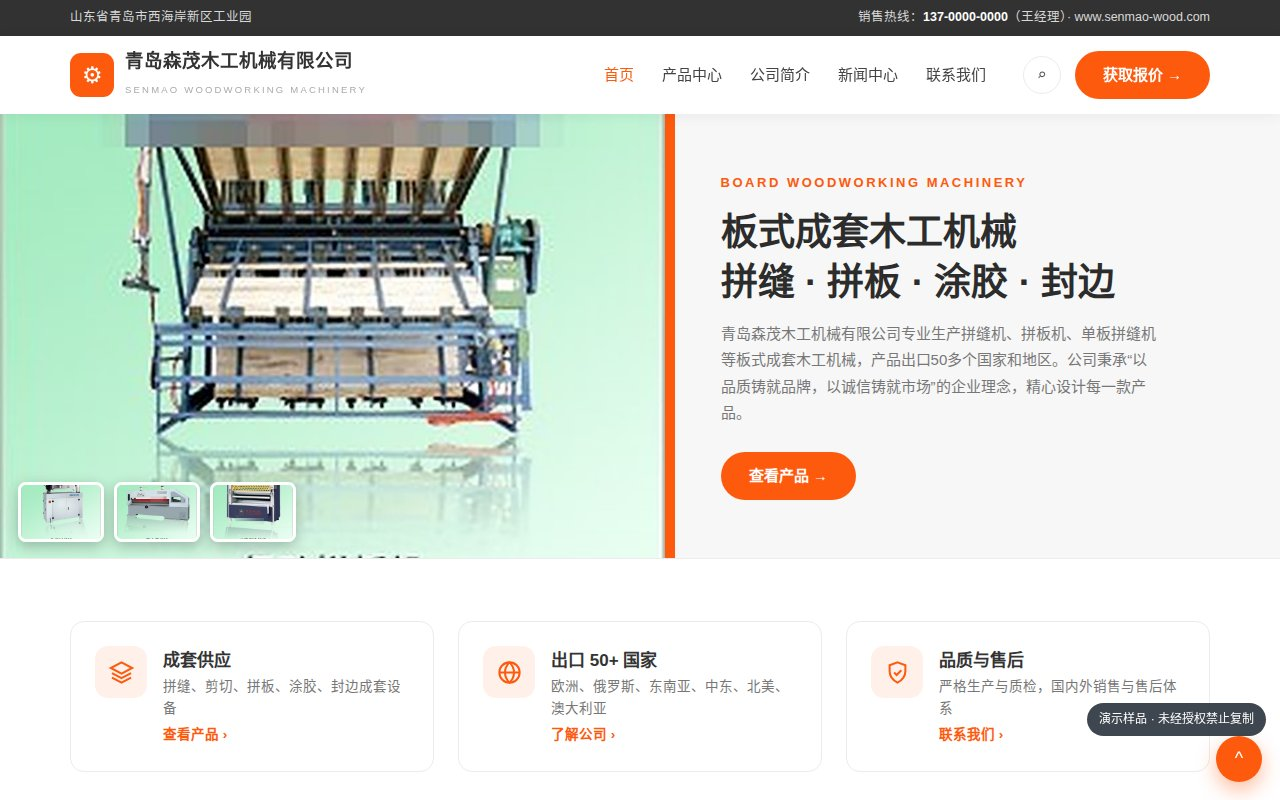
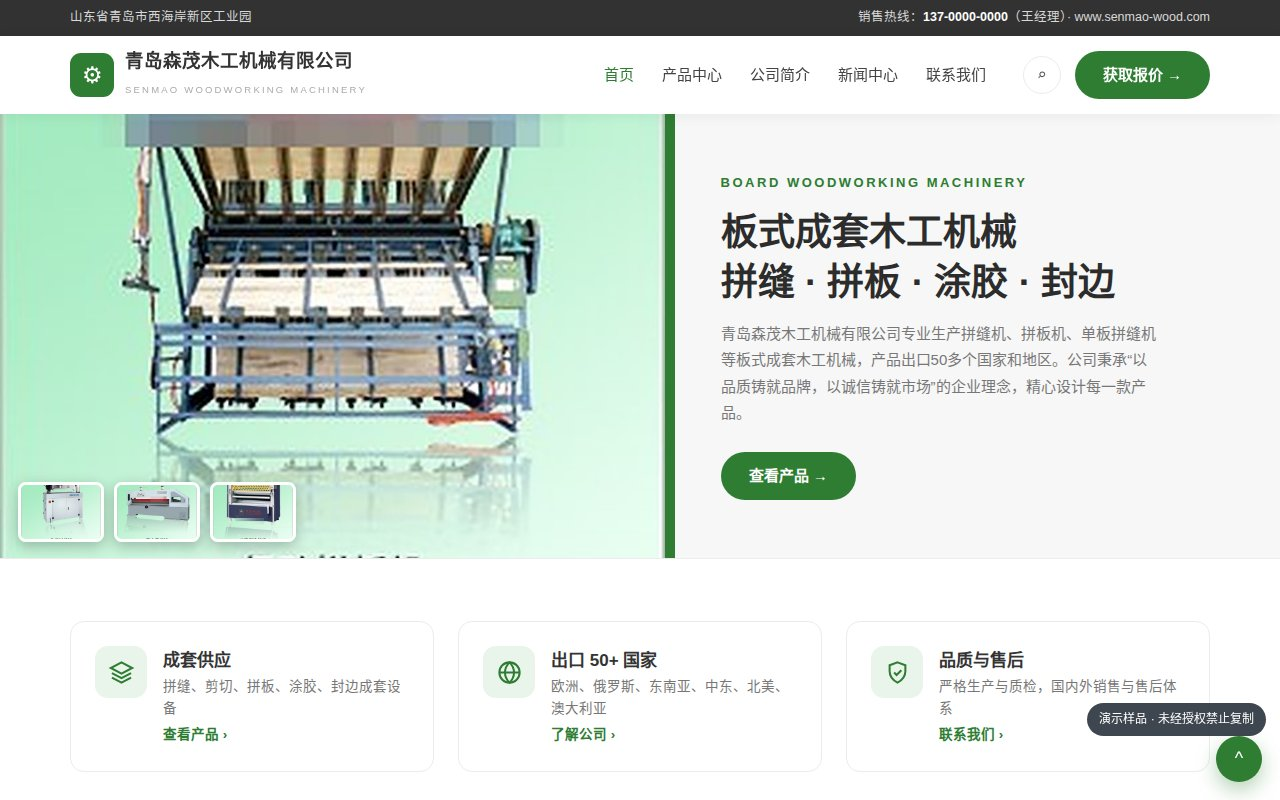
T04 木工站主题色改绿色系（#2e7d32 深绿，含按钮/图标/统计/回顶全套替换），公开演示与案例截图同步

diff --git a/demo/case-wood/style.css b/demo/case-wood/style.css
@@ -1,4 +1,4 @@
-:root{--org:#fe5a0e;--dark:#323232;--ink:#333;--mut:#777;--bg:#f7f7f7;--line:#ececec;--wa:1180px}
+:root{--org:#2e7d32;--dark:#323232;--ink:#333;--mut:#777;--bg:#f7f7f7;--line:#ececec;--wa:1180px}
 *{margin:0;padding:0;box-sizing:border-box}
 body{font-family:"PingFang SC","Hiragino Sans GB","Microsoft YaHei",sans-serif;color:var(--ink);font-size:15px;line-height:1.75;background:#fff;-webkit-text-size-adjust:100%}
 img{display:block;max-width:100%}
@@ -19,9 +19,9 @@ a{color:inherit;text-decoration:none}
 .head-acts{display:flex;align-items:center;gap:14px;flex:none}
 .search-ic{width:38px;height:38px;border:1px solid var(--line);border-radius:50%;display:flex;align-items:center;justify-content:center;font-size:16px;color:#555}
 .btn{display:inline-flex;align-items:center;gap:8px;background:var(--org);color:#fff;padding:11px 28px;border-radius:999px;font-weight:700;font-size:15px;transition:.25s}
-.btn:hover{background:#e04a08}
+.btn:hover{background:#256629}
 .btn.line{background:#fff;color:var(--org);border:1.5px solid var(--org)}
-.btn.line:hover{background:#fff4ee}
+.btn.line:hover{background:#eef6ee}
 .burger{display:none;margin-left:auto;background:none;border:0;font-size:24px;cursor:pointer;padding:6px}
 .hero{display:grid;grid-template-columns:1.08fr 1fr;border-bottom:1px solid var(--line)}
 .hero-l{position:relative;min-height:430px}
@@ -40,7 +40,7 @@ a{color:inherit;text-decoration:none}
 .sec-head p{color:var(--mut);margin-top:9px}
 .svc3{display:grid;grid-template-columns:repeat(3,1fr);gap:24px}
 .svc{display:flex;gap:16px;background:#fff;border:1px solid var(--line);border-radius:14px;padding:24px}
-.svc .ic{flex:none;width:52px;height:52px;border-radius:13px;background:#fff1e9;color:var(--org);display:flex;align-items:center;justify-content:center}
+.svc .ic{flex:none;width:52px;height:52px;border-radius:13px;background:#e9f4ea;color:var(--org);display:flex;align-items:center;justify-content:center}
 .svc b{font-size:17px;display:block}
 .svc span{font-size:13.5px;color:var(--mut);display:block;line-height:1.65}
 .svc a{color:var(--org);font-weight:700;font-size:13.5px}
@@ -48,7 +48,7 @@ a{color:inherit;text-decoration:none}
 .grid3{display:grid;grid-template-columns:repeat(3,1fr);gap:24px}
 .catcardB{background:#fff;border-radius:14px;overflow:hidden;text-align:center;box-shadow:0 2px 10px rgba(0,0,0,.05);transition:.3s;display:block}
 .catcardB:hover{transform:translateY(-4px)}
-.catcardB .thumb{aspect-ratio:4/3;overflow:hidden;background:#faf3ec}
+.catcardB .thumb{aspect-ratio:4/3;overflow:hidden;background:#f2f7f0}
 .catcardB img{width:100%;height:100%;object-fit:cover;transition:transform .8s ease}
 .catcardB:hover img{transform:scale(1.07)}
 .catcardB .cb{padding:15px}
@@ -56,10 +56,10 @@ a{color:inherit;text-decoration:none}
 .catcardB span{display:block;color:var(--mut);font-size:13px}
 .shopcard{background:#fff;border-radius:14px;padding:14px 14px 18px;transition:.3s;display:flex;flex-direction:column}
 .shopcard:hover{box-shadow:0 14px 30px rgba(0,0,0,.10)}
-.shopcard .thumb{border-radius:10px;overflow:hidden;aspect-ratio:4/3;background:#faf3ec}
+.shopcard .thumb{border-radius:10px;overflow:hidden;aspect-ratio:4/3;background:#f2f7f0}
 .shopcard .thumb img{width:100%;height:100%;object-fit:cover;transition:transform .8s ease}
 .shopcard:hover .thumb img{transform:scale(1.07)}
-.shopcard .thumb .ph-txt{height:100%;display:flex;align-items:center;justify-content:center;color:#d8a97e;font-size:26px;font-weight:800}
+.shopcard .thumb .ph-txt{height:100%;display:flex;align-items:center;justify-content:center;color:#8fae8b;font-size:26px;font-weight:800}
 .shopcard h5{font-size:16px;margin:13px 2px 2px;line-height:1.5}
 .shopcard .price{color:var(--org);font-weight:800;font-size:16.5px}
 .shopcard .meta{color:var(--mut);font-size:13px;margin:2px 2px 12px;line-height:1.6}
@@ -81,7 +81,7 @@ a{color:inherit;text-decoration:none}
 .site-footer .flinks a:hover{color:var(--org)}
 .site-footer .fcontact{color:var(--mut);font-size:13.5px;margin-top:12px}
 .copyright{border-top:1px solid var(--line);margin-top:26px;padding:15px 0;font-size:12.5px;color:#999}
-#toTop{position:fixed;right:18px;bottom:18px;width:46px;height:46px;border-radius:50%;background:var(--org);color:#fff;display:flex;align-items:center;justify-content:center;font-size:18px;z-index:90;cursor:pointer;box-shadow:0 8px 20px rgba(254,90,14,.4)}
+#toTop{position:fixed;right:18px;bottom:18px;width:46px;height:46px;border-radius:50%;background:var(--org);color:#fff;display:flex;align-items:center;justify-content:center;font-size:18px;z-index:90;cursor:pointer;box-shadow:0 8px 20px rgba(46,125,50,.35)}
 .page-hero{background:var(--dark);color:#fff;padding:42px 0;position:relative;overflow:hidden}
 .page-hero h1{font-size:29px;font-weight:800}
 .page-hero .crumb{font-size:13px;color:#bbb;margin-top:5px}
@@ -92,9 +92,9 @@ a{color:inherit;text-decoration:none}
 .shop-side .sinput{width:100%;border:1px solid var(--line);border-radius:999px;padding:9px 16px;font-size:14px;outline:none;font-family:inherit}
 .shop-side a.srow{display:flex;justify-content:space-between;padding:8px 2px;border-bottom:1px dashed var(--line);font-size:14px}
 .shop-side a.srow:hover{color:var(--org)}
-.shop-side a.srow span{background:#fff1e9;color:var(--org);border-radius:999px;padding:0 9px;font-size:12.5px;font-weight:700}
+.shop-side a.srow span{background:#e9f4ea;color:var(--org);border-radius:999px;padding:0 9px;font-size:12.5px;font-weight:700}
 .pd-grid{display:grid;grid-template-columns:1fr 1fr;gap:36px;align-items:start}
-.pd-main{border-radius:14px;overflow:hidden;background:#faf3ec}
+.pd-main{border-radius:14px;overflow:hidden;background:#f2f7f0}
 .pd-main img{width:100%;aspect-ratio:4/3;object-fit:cover}
 .pd-thumbs{display:flex;gap:10px;margin-top:12px}
 .pd-thumbs img{width:88px;height:64px;object-fit:cover;border-radius:8px}
@@ -116,12 +116,12 @@ a{color:inherit;text-decoration:none}
 table.spec{border-collapse:collapse;width:100%;font-size:14px}
 table.spec th,table.spec td{border:1px solid var(--line);padding:9px 12px;text-align:left}
 table.spec th{background:var(--bg)}
-.cta-box{background:#fff4ee;border:1px dashed var(--org);border-radius:14px;padding:22px 26px;display:flex;align-items:center;gap:20px;flex-wrap:wrap;margin-top:30px}
+.cta-box{background:#eef6ee;border:1px dashed var(--org);border-radius:14px;padding:22px 26px;display:flex;align-items:center;gap:20px;flex-wrap:wrap;margin-top:30px}
 .cta-box .big{font-size:18px;font-weight:800}
 .cta-box small{display:block;color:var(--mut);font-size:13.5px}
 .cta-box .btn{margin-left:auto}
 .news-row{display:flex;gap:20px;padding:19px 4px;border-bottom:1px solid var(--line);align-items:flex-start}
-.news-row .dbox{flex:none;background:#fff1e9;color:var(--org);text-align:center;border-radius:12px;padding:10px 14px;line-height:1.3}
+.news-row .dbox{flex:none;background:#e9f4ea;color:var(--org);text-align:center;border-radius:12px;padding:10px 14px;line-height:1.3}
 .news-row .dbox b{display:block;font-size:20px}
 .news-row h3{font-size:17px;margin-bottom:5px}
 .news-row p{font-size:14px;color:var(--mut)}

diff --git a/demo/case-wood/product-281.html b/demo/case-wood/product-281.html
@@ -18,7 +18,7 @@
 </div></header><div class="page-hero"><div class="wrap"><h1>手动直线多功能封边机</h1><div class="crumb">您现在的位置：<a href="index.html">首页</a> &gt; <a href="products.html">产品中心</a> &gt; 手动直线多功能封边机</div></div></div>
 <section class="section" style="padding-top:40px"><div class="wrap">
 <div class="pd-grid">
-<div><div class="pd-main"><div class="ph-txt" style="aspect-ratio:4/3;display:flex;align-items:center;justify-content:center;color:#d8a97e;font-size:32px;font-weight:800">手动封边机</div></div><div class="pd-thumbs"><img src="assets/img_029.jpg" alt="MQ3200液压单板剪切机"><img src="assets/img_033.jpg" alt="MY系列气压拼板机"><img src="assets/img_028.jpg" alt="MT6113/MT6213单双面涂胶机"></div></div>
+<div><div class="pd-main"><div class="ph-txt" style="aspect-ratio:4/3;display:flex;align-items:center;justify-content:center;color:#8fae8b;font-size:32px;font-weight:800">手动封边机</div></div><div class="pd-thumbs"><img src="assets/img_029.jpg" alt="MQ3200液压单板剪切机"><img src="assets/img_033.jpg" alt="MY系列气压拼板机"><img src="assets/img_028.jpg" alt="MT6113/MT6213单双面涂胶机"></div></div>
 <div class="pd-info"><div style="font-size:12.5px;color:var(--org);font-weight:700;letter-spacing:1.5px">涂胶 · 封边系列</div>
 <h1>手动直线多功能封边机</h1><div class="price">面议</div>
 <p class="meta">封边、上下修边、表面抛光多功能</p>

diff --git a/demo/case-wood/product-282.html b/demo/case-wood/product-282.html
@@ -18,7 +18,7 @@
 </div></header><div class="page-hero"><div class="wrap"><h1>501A半自动直线封边机</h1><div class="crumb">您现在的位置：<a href="index.html">首页</a> &gt; <a href="products.html">产品中心</a> &gt; 501A半自动直线封边机</div></div></div>
 <section class="section" style="padding-top:40px"><div class="wrap">
 <div class="pd-grid">
-<div><div class="pd-main"><div class="ph-txt" style="aspect-ratio:4/3;display:flex;align-items:center;justify-content:center;color:#d8a97e;font-size:32px;font-weight:800">501A</div></div><div class="pd-thumbs"><img src="assets/img_029.jpg" alt="MQ3200液压单板剪切机"><img src="assets/img_033.jpg" alt="MY系列气压拼板机"><img src="assets/img_028.jpg" alt="MT6113/MT6213单双面涂胶机"></div></div>
+<div><div class="pd-main"><div class="ph-txt" style="aspect-ratio:4/3;display:flex;align-items:center;justify-content:center;color:#8fae8b;font-size:32px;font-weight:800">501A</div></div><div class="pd-thumbs"><img src="assets/img_029.jpg" alt="MQ3200液压单板剪切机"><img src="assets/img_033.jpg" alt="MY系列气压拼板机"><img src="assets/img_028.jpg" alt="MT6113/MT6213单双面涂胶机"></div></div>
 <div class="pd-info"><div style="font-size:12.5px;color:var(--org);font-weight:700;letter-spacing:1.5px">涂胶 · 封边系列</div>
 <h1>501A半自动直线封边机</h1><div class="price">面议</div>
 <p class="meta">封边料宽度 15-55mm · 输送速度 13m/min</p>

diff --git a/demo/case-wood/product-285.html b/demo/case-wood/product-285.html
@@ -18,7 +18,7 @@
 </div></header><div class="page-hero"><div class="wrap"><h1>MT6106/MT6206单双面涂胶机</h1><div class="crumb">您现在的位置：<a href="index.html">首页</a> &gt; <a href="products.html">产品中心</a> &gt; MT6106/MT6206单双面涂胶机</div></div></div>
 <section class="section" style="padding-top:40px"><div class="wrap">
 <div class="pd-grid">
-<div><div class="pd-main"><div class="ph-txt" style="aspect-ratio:4/3;display:flex;align-items:center;justify-content:center;color:#d8a97e;font-size:32px;font-weight:800">MT6106</div></div><div class="pd-thumbs"><img src="assets/img_029.jpg" alt="MQ3200液压单板剪切机"><img src="assets/img_033.jpg" alt="MY系列气压拼板机"><img src="assets/img_028.jpg" alt="MT6113/MT6213单双面涂胶机"></div></div>
+<div><div class="pd-main"><div class="ph-txt" style="aspect-ratio:4/3;display:flex;align-items:center;justify-content:center;color:#8fae8b;font-size:32px;font-weight:800">MT6106</div></div><div class="pd-thumbs"><img src="assets/img_029.jpg" alt="MQ3200液压单板剪切机"><img src="assets/img_033.jpg" alt="MY系列气压拼板机"><img src="assets/img_028.jpg" alt="MT6113/MT6213单双面涂胶机"></div></div>
 <div class="pd-info"><div style="font-size:12.5px;color:var(--org);font-weight:700;letter-spacing:1.5px">涂胶 · 封边系列</div>
 <h1>MT6106/MT6206单双面涂胶机</h1><div class="price">面议</div>
 <p class="meta">最大加工宽度 600mm</p>

diff --git a/demo/case-wood/product-283.html b/demo/case-wood/product-283.html
@@ -18,7 +18,7 @@
 </div></header><div class="page-hero"><div class="wrap"><h1>1300双砂架宽带砂光机</h1><div class="crumb">您现在的位置：<a href="index.html">首页</a> &gt; <a href="products.html">产品中心</a> &gt; 1300双砂架宽带砂光机</div></div></div>
 <section class="section" style="padding-top:40px"><div class="wrap">
 <div class="pd-grid">
-<div><div class="pd-main"><div class="ph-txt" style="aspect-ratio:4/3;display:flex;align-items:center;justify-content:center;color:#d8a97e;font-size:32px;font-weight:800">1300</div></div><div class="pd-thumbs"><img src="assets/img_029.jpg" alt="MQ3200液压单板剪切机"><img src="assets/img_033.jpg" alt="MY系列气压拼板机"><img src="assets/img_028.jpg" alt="MT6113/MT6213单双面涂胶机"></div></div>
+<div><div class="pd-main"><div class="ph-txt" style="aspect-ratio:4/3;display:flex;align-items:center;justify-content:center;color:#8fae8b;font-size:32px;font-weight:800">1300</div></div><div class="pd-thumbs"><img src="assets/img_029.jpg" alt="MQ3200液压单板剪切机"><img src="assets/img_033.jpg" alt="MY系列气压拼板机"><img src="assets/img_028.jpg" alt="MT6113/MT6213单双面涂胶机"></div></div>
 <div class="pd-info"><div style="font-size:12.5px;color:var(--org);font-weight:700;letter-spacing:1.5px">其他设备</div>
 <h1>1300双砂架宽带砂光机</h1><div class="price">面议</div>
 <p class="meta">加工宽度 1300mm · 加工厚度 2.5-110mm</p>

diff --git a/demo/case-wood/product-284.html b/demo/case-wood/product-284.html
@@ -18,7 +18,7 @@
 </div></header><div class="page-hero"><div class="wrap"><h1>MB204A双面木工压刨床</h1><div class="crumb">您现在的位置：<a href="index.html">首页</a> &gt; <a href="products.html">产品中心</a> &gt; MB204A双面木工压刨床</div></div></div>
 <section class="section" style="padding-top:40px"><div class="wrap">
 <div class="pd-grid">
-<div><div class="pd-main"><div class="ph-txt" style="aspect-ratio:4/3;display:flex;align-items:center;justify-content:center;color:#d8a97e;font-size:32px;font-weight:800">MB204A</div></div><div class="pd-thumbs"><img src="assets/img_029.jpg" alt="MQ3200液压单板剪切机"><img src="assets/img_033.jpg" alt="MY系列气压拼板机"><img src="assets/img_028.jpg" alt="MT6113/MT6213单双面涂胶机"></div></div>
+<div><div class="pd-main"><div class="ph-txt" style="aspect-ratio:4/3;display:flex;align-items:center;justify-content:center;color:#8fae8b;font-size:32px;font-weight:800">MB204A</div></div><div class="pd-thumbs"><img src="assets/img_029.jpg" alt="MQ3200液压单板剪切机"><img src="assets/img_033.jpg" alt="MY系列气压拼板机"><img src="assets/img_028.jpg" alt="MT6113/MT6213单双面涂胶机"></div></div>
 <div class="pd-info"><div style="font-size:12.5px;color:var(--org);font-weight:700;letter-spacing:1.5px">其他设备</div>
 <h1>MB204A双面木工压刨床</h1><div class="price">面议</div>
 <p class="meta">最大刨削宽度 400mm · 重量 390kg</p>

diff --git a/demo/case-wood/product-279.html b/demo/case-wood/product-279.html
@@ -18,7 +18,7 @@
 </div></header><div class="page-hero"><div class="wrap"><h1>FB-48系列翻板机</h1><div class="crumb">您现在的位置：<a href="index.html">首页</a> &gt; <a href="products.html">产品中心</a> &gt; FB-48系列翻板机</div></div></div>
 <section class="section" style="padding-top:40px"><div class="wrap">
 <div class="pd-grid">
-<div><div class="pd-main"><div class="ph-txt" style="aspect-ratio:4/3;display:flex;align-items:center;justify-content:center;color:#d8a97e;font-size:32px;font-weight:800">FB-48</div></div><div class="pd-thumbs"><img src="assets/img_029.jpg" alt="MQ3200液压单板剪切机"><img src="assets/img_033.jpg" alt="MY系列气压拼板机"><img src="assets/img_028.jpg" alt="MT6113/MT6213单双面涂胶机"></div></div>
+<div><div class="pd-main"><div class="ph-txt" style="aspect-ratio:4/3;display:flex;align-items:center;justify-content:center;color:#8fae8b;font-size:32px;font-weight:800">FB-48</div></div><div class="pd-thumbs"><img src="assets/img_029.jpg" alt="MQ3200液压单板剪切机"><img src="assets/img_033.jpg" alt="MY系列气压拼板机"><img src="assets/img_028.jpg" alt="MT6113/MT6213单双面涂胶机"></div></div>
 <div class="pd-info"><div style="font-size:12.5px;color:var(--org);font-weight:700;letter-spacing:1.5px">其他设备</div>
 <h1>FB-48系列翻板机</h1><div class="price">面议</div>
 <p class="meta">翻转角度 0-180度 · 额载 2000-3000kg</p>

diff --git a/demo/case-wood/product-287.html b/demo/case-wood/product-287.html
@@ -18,7 +18,7 @@
 </div></header><div class="page-hero"><div class="wrap"><h1>MMD3000磨刀机</h1><div class="crumb">您现在的位置：<a href="index.html">首页</a> &gt; <a href="products.html">产品中心</a> &gt; MMD3000磨刀机</div></div></div>
 <section class="section" style="padding-top:40px"><div class="wrap">
 <div class="pd-grid">
-<div><div class="pd-main"><div class="ph-txt" style="aspect-ratio:4/3;display:flex;align-items:center;justify-content:center;color:#d8a97e;font-size:32px;font-weight:800">MMD3000</div></div><div class="pd-thumbs"><img src="assets/img_029.jpg" alt="MQ3200液压单板剪切机"><img src="assets/img_033.jpg" alt="MY系列气压拼板机"><img src="assets/img_028.jpg" alt="MT6113/MT6213单双面涂胶机"></div></div>
+<div><div class="pd-main"><div class="ph-txt" style="aspect-ratio:4/3;display:flex;align-items:center;justify-content:center;color:#8fae8b;font-size:32px;font-weight:800">MMD3000</div></div><div class="pd-thumbs"><img src="assets/img_029.jpg" alt="MQ3200液压单板剪切机"><img src="assets/img_033.jpg" alt="MY系列气压拼板机"><img src="assets/img_028.jpg" alt="MT6113/MT6213单双面涂胶机"></div></div>
 <div class="pd-info"><div style="font-size:12.5px;color:var(--org);font-weight:700;letter-spacing:1.5px">其他设备</div>
 <h1>MMD3000磨刀机</h1><div class="price">面议</div>
 <p class="meta">最大磨削长度 3200mm</p>
